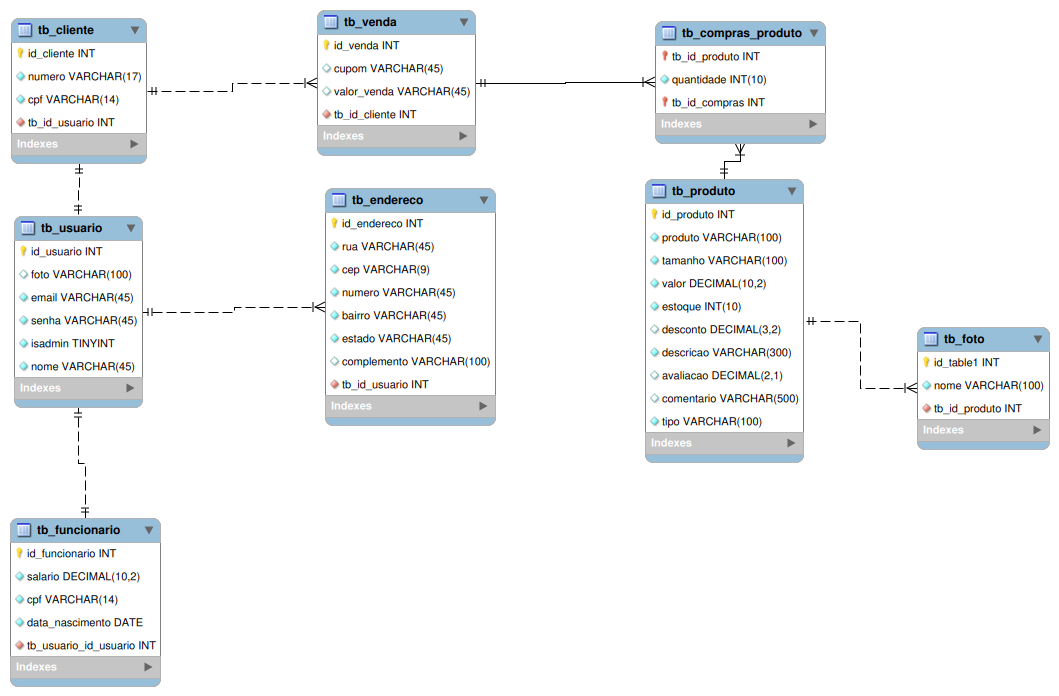
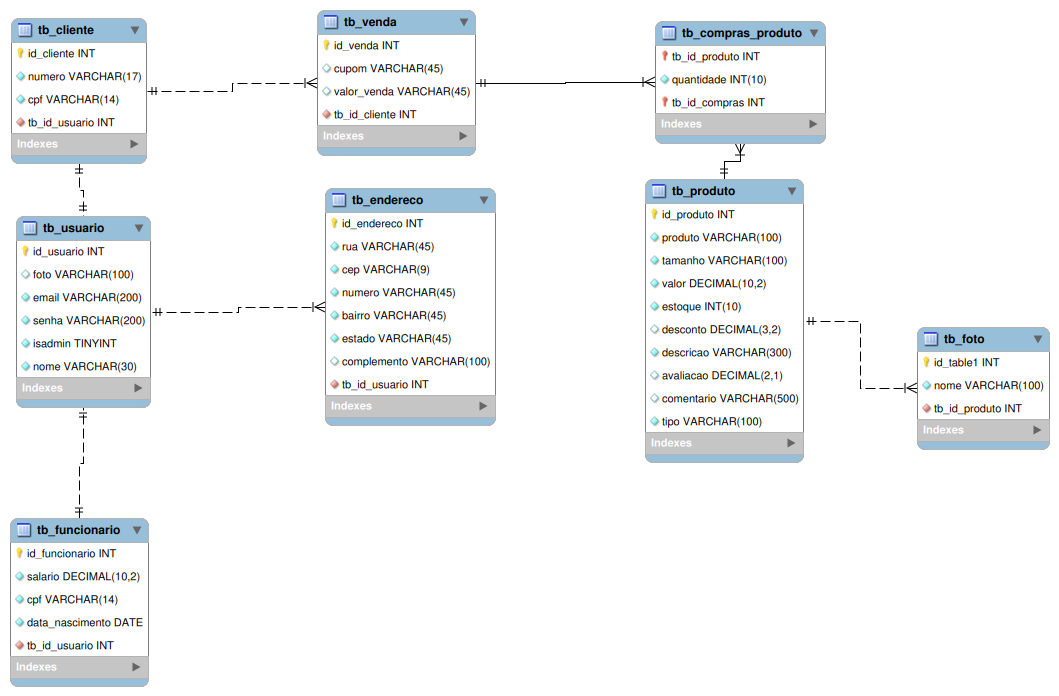
login

diff --git a/public/area_cliente.php b/public/area_cliente.php
@@ -1,8 +1,11 @@
 <?php
 require_once './controle/conexao.php';
 require_once './controle/func.php';  
+require_once 'verificaLogado.php';
 
-
+// if ($_SESSION['tipo'] != 'g') {
+//   header("Location: index.php");
+// };
 ?>
 
 
@@ -66,22 +69,6 @@ foreach ($produto as $prod)   {
 } 
 ?>  
 
-<!--    
-</form> -->
-  <!-- card -->
-<!-- <div class="cards-container">
-  <div class="card-wrapper">
-    <div class="card">
-      <div class="card-image" style="background-image: url('https://via.placeholder.com/300x130/ffffff/000000?text=Camiseta+Branca');"></div>
-      <div class="card-body">
-        <h3 class="product-title">Camiseta Branca</h3>
-        <p class="product-price">R$ 79,90</p>
-        <button class="buy-button">Comprar</button>
-      </div>
-    </div>  
-  </div> -->
-  <!-- card -->
-  
   
   <div class="rating">
     <span>★</span>

diff --git a/public/controle/verificar_U.php b/public/controle/verificar_U.php
@@ -1,0 +1,31 @@
+<?php
+require_once "./conexao.php";
+require_once "./func.php";
+
+
+$email = $_POST['email'];
+$senha = $_POST['senha'];
+
+
+$idusuario = verificarLogin($conexao, $email, $senha);
+
+    if ($idusuario == 0) {
+        header("Location: ../index.php");
+    }
+    else {
+        $usuario = pegarDadosUsuario($conexao, $idusuario);
+        
+        if ($usuario == 0) {
+            header("Location: index.php");
+        }
+        else {
+            session_start();
+            $_SESSION['logado'] = 'sim';
+            $_SESSION['tipo'] = $usuario['tipo'];
+            $_SESSION['nome'] = $usuario['nome'];
+            header("Location: home.php");
+        }
+    }
+?>
+
+

diff --git a/public/controle/func.php b/public/controle/func.php
@@ -205,12 +205,12 @@ function listarVenda($conexao){
 
 
 
-function salvarUsuario($conexao, $foto, $email, $senha, $isadmin, $nome) {
+function salvarUsuario($conexao, $foto, $email, $senha_hash, $isadmin, $nome) {
     $sql = "INSERT INTO tb_usuario( foto, email, senha, isadmin, nome )
     VALUES (?,?,?,?,?)";
     $comando = mysqli_prepare($conexao, $sql);
     
-    mysqli_stmt_bind_param($comando, 'sssis', $foto, $email, $senha, $isadmin, $nome);
+    mysqli_stmt_bind_param($comando, 'sssis', $foto, $email, $senha_hash, $isadmin, $nome);
 
     mysqli_stmt_execute($comando);
 

diff --git a/public/ItemUnico.php b/public/ItemUnico.php
@@ -61,8 +61,9 @@ require_once './controle/func.php';
 
             <!-- Botões -->
             <div class="botoes">
-                <button class="comprar">Comprar</button>
-                <button class="carrinho">Adicionar ao carrinho</button>
+                <a href="pagamento.php"><button class="comprar">Comprar</button></a>
+                <a href="carinho.php"><button class="carrinho">Adicionar ao carrinho</button></a>
+
             </div>
         </div>
     </div>

diff --git a/public/controle/salvar_U.php b/public/controle/salvar_U.php
@@ -11,6 +11,8 @@ $senha = $_POST['senha'];
 
 $foto ="test";
 
+$senha_hash = password_hash($senha, PASSWORD_DEFAULT);
+
 // todo isafmin = 1 e um cliente
 
 $isadmin = 1;
@@ -18,7 +20,7 @@ $isadmin = 1;
 // $foto = $_POST['foto'];
 
 
-$id_usuario=salvarUsuario($conexao, $foto, $email, $senha, $isadmin, $nome );  
+$id_usuario=salvarUsuario($conexao, $foto, $email, $senha_hash, $isadmin, $nome );  
 
 // var_dump($id_usuario);
 // die;

diff --git a/public/index.php b/public/index.php
@@ -28,7 +28,7 @@
   <div class="form-container">
      <h2>Login</h2>
     
-     <form class="form" action="verificar_U.php" method="POST">
+     <form class="form" action="./controle/verificar_U.php" method="POST">
        <div class="field">
          <input type="text" name="email" placeholder="Nome de usuário" class="input" autocomplete="off" required>
         </div>  

diff --git a/public/pagamento.php b/public/pagamento.php
@@ -1,0 +1,13 @@
+<!DOCTYPE html>
+<html lang="en">
+<head>
+    <meta charset="UTF-8">
+    <meta name="viewport" content="width=device-width, initial-scale=1.0">
+    <title>Document</title>
+</head>
+<body>
+    <H1>trabalho pro marcos</H1>
+    <H2>os links</H2>
+    
+</body>
+</html>
